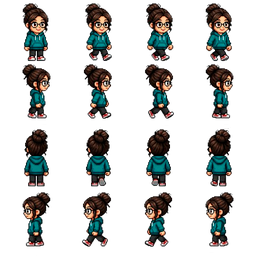
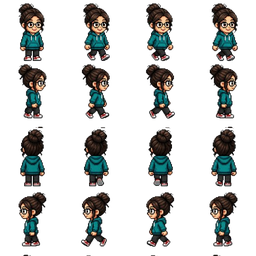
a

diff --git a/jogo/Data/fase_01.js b/jogo/Data/fase_01.js
@@ -1532,6 +1532,14 @@ const Fase01 = {
       "id": "parede_1536_960",
       "x": 1536,
       "y": 960,
+      "width": 32,
+      "height": 64,
+      "img": ""
+    },
+    {
+      "id": "parede_1536_960",
+      "x": 448,
+      "y": 704,
       "width": 64,
       "height": 64,
       "img": ""
@@ -1540,7 +1548,7 @@ const Fase01 = {
       "id": "parede_1536_832",
       "x": 1536,
       "y": 832,
-      "width": 64,
+      "width": 32,
       "height": 64,
       "img": ""
     },
@@ -1548,7 +1556,7 @@ const Fase01 = {
       "id": "parede_1536_768",
       "x": 1536,
       "y": 768,
-      "width": 64,
+      "width": 32,
       "height": 64,
       "img": ""
     },
@@ -1556,7 +1564,7 @@ const Fase01 = {
       "id": "parede_1536_704",
       "x": 1536,
       "y": 704,
-      "width": 64,
+      "width": 32,
       "height": 64,
       "img": ""
     },
@@ -1629,31 +1637,32 @@ const Fase01 = {
       "x": 640,
       "y": 448,
       "width": 64,
-      "height": 64,
+      "height": 32,
       "img": ""
     },
     {
       "id": "parede_576_384",
-      "x": 576,
+      "x": 595,
       "y": 384,
-      "width": 64,
+      "width": 56,
       "height": 64,
       "img": ""
     },
     {
       "id": "parede_576_448",
-      "x": 576,
+      "x": 608,
       "y": 448,
-      "width": 64,
-      "height": 64,
+      "width": 32,
+      "height": 32,
       "img": ""
+      
     },
     {
       "id": "parede_448_448",
       "x": 448,
       "y": 448,
       "width": 64,
-      "height": 64,
+      "height": 32,
       "img": ""
     },
     {
@@ -1666,18 +1675,18 @@ const Fase01 = {
     },
     {
       "id": "parede_384_384",
-      "x": 384,
+      "x": 409,
       "y": 384,
-      "width": 64,
+      "width": 32,
       "height": 64,
       "img": ""
     },
     {
       "id": "parede_384_448",
-      "x": 384,
+      "x": 427,
       "y": 448,
-      "width": 64,
-      "height": 64,
+      "width": 32,
+      "height": 32,
       "img": ""
     },
     {
@@ -1988,7 +1997,7 @@ const Fase01 = {
       "id": "parede_1536_896",
       "x": 1536,
       "y": 896,
-      "width": 64,
+      "width": 32,
       "height": 64,
       "img": ""
     },
